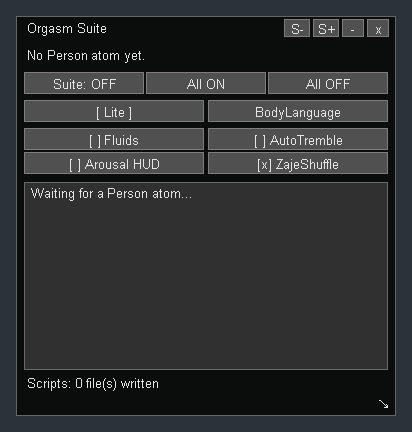
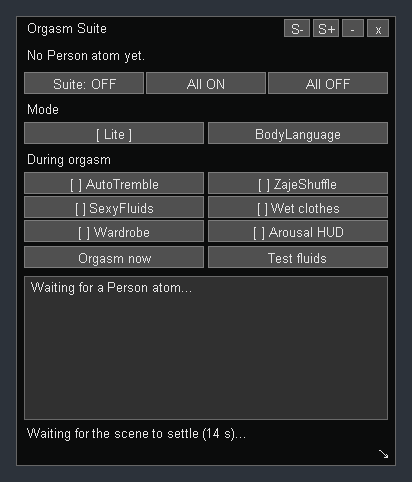
OrgasmSuite window: Mode (Lite / BodyLanguage), then per-module 'during orgasm' switches (AutoTremble, ZajeShuffle, SexyFluids, Wet clothes, Wardrobe) + HUD

diff --git a/zerot/OrgasmSuite/OrgasmSuite.cs b/zerot/OrgasmSuite/OrgasmSuite.cs
@@ -51,19 +51,20 @@ namespace ZeroT.OrgasmSuite
 		{
 			public bool On = true;
 			public string Engine = "Lite";   // Lite | BodyLanguage
-			public bool Fluids = true, Tremble = true, Hud = true;
+			// what happens during an orgasm on this Person (each one is a part of the suite that can be switched off) + the HUD
+			public bool Fluids = true, Tremble = true, Shuffle = true, Wet = true, Wardrobe = true, Hud = true;
 		}
 
 		private readonly Dictionary<string, PersonCfg> _cfg = new Dictionary<string, PersonCfg>(StringComparer.Ordinal);
 
 		// ------------------------------------------------------------------ config
-		private ConfigEntry<bool> _active, _females, _males, _shuffle, _autoAttach;
+		private ConfigEntry<bool> _active, _females, _males, _autoAttach;
 		private ConfigEntry<float> _settle, _quiet;
 		private ConfigEntry<bool> _showWindow, _collapsed, _dpiAware;
 		private ConfigEntry<float> _scale, _winX, _winY, _winW, _winH;
 		private ConfigEntry<string> _lastUid;
 
-		private Rect _win = new Rect(60f, 140f, 380f, 400f);
+		private Rect _win = new Rect(60f, 140f, 380f, 450f);
 		private bool _dragging, _resizing;
 		private Vector2 _dragStartMouse, _dragStartPos, _resizeStartMouse, _resizeStartSize;
 		private const float MinW = 320f, MaxW = 640f, MinH = 260f, MaxH = 760f, CollapsedH = 34f;
@@ -96,14 +97,13 @@ namespace ZeroT.OrgasmSuite
 			_autoAttach = Config.Bind("Suite", "AutoAttach", true, "Attach / detach the scripts by itself. Off: the suite never touches a Person (use it only to switch the choices on and off in the window).");
 			_settle = Config.Bind("Suite", "SettleSeconds", 15f, "After a scene load finishes, wait at least this long before attaching anything: VaM keeps restoring the scene's own plugins for a while after it says loading is done, and a script added in the middle of that crashed VaM.");
 			_quiet = Config.Bind("Suite", "QuietSeconds", 6f, "...and until nothing about the atoms or their plugin slots has changed for this long (changes the suite itself makes do not count).");
-			_shuffle = Config.Bind("Suite", "ZajeShuffle", true, "Keep one ZajeShuffle on CoreControl so every orgasm can fire a shuffle.");
 			_showWindow = Config.Bind("Window", "Show", true, "Show the in-game Orgasm Suite window.");
 			_collapsed = Config.Bind("Window", "Collapsed", false, "Collapse the window to its title bar.");
 			_scale = Config.Bind("Window", "Scale", 1.0f, "Extra scale multiplier applied on top of DPI (S- / S+).");
 			_winX = Config.Bind("Window", "X", 60f, "Saved horizontal position.");
 			_winY = Config.Bind("Window", "Y", 140f, "Saved vertical position.");
 			_winW = Config.Bind("Window", "Width", 380f, "Saved width.");
-			_winH = Config.Bind("Window", "Height", 400f, "Saved height.");
+			_winH = Config.Bind("Window", "Height", 450f, "Saved height.");
 			_dpiAware = Config.Bind("Window", "DpiAware", true, "Scale with the monitor's DPI.");
 			_lastUid = Config.Bind("State", "LastPerson", "", "Person remembered across sessions.");
 			_win = new Rect(_winX.Value, _winY.Value, Mathf.Clamp(_winW.Value, MinW, MaxW), Mathf.Clamp(_winH.Value, MinH, MaxH));
@@ -215,6 +215,7 @@ namespace ZeroT.OrgasmSuite
 					c.Fluids = f[3] == "1";
 					c.Tremble = f[4] == "1";
 					c.Hud = f[5] == "1";
+					if (f.Length >= 9) { c.Shuffle = f[6] == "1"; c.Wet = f[7] == "1"; c.Wardrobe = f[8] == "1"; }   // older files stop at the HUD column
 					_cfg[f[0]] = c;
 				}
 			}
@@ -236,7 +237,8 @@ namespace ZeroT.OrgasmSuite
 				{
 					PersonCfg c = kv.Value;
 					sb.Append(kv.Key).Append('\t').Append(c.On ? "1" : "0").Append('\t').Append(c.Engine).Append('\t')
-						.Append(c.Fluids ? "1" : "0").Append('\t').Append(c.Tremble ? "1" : "0").Append('\t').Append(c.Hud ? "1" : "0").Append('\n');
+						.Append(c.Fluids ? "1" : "0").Append('\t').Append(c.Tremble ? "1" : "0").Append('\t').Append(c.Hud ? "1" : "0")
+							.Append('\t').Append(c.Shuffle ? "1" : "0").Append('\t').Append(c.Wet ? "1" : "0").Append('\t').Append(c.Wardrobe ? "1" : "0").Append('\n');
 				}
 				File.WriteAllText(p, sb.ToString());
 			}
@@ -442,7 +444,7 @@ namespace ZeroT.OrgasmSuite
 			{
 				MVRPluginManager cm = FindManager(core);
 				string zs = "CoreControl's plugin manager is not ready";
-				if (cm != null) attachedOne = Apply(core, cm, Zaje, _shuffle.Value, ref attachedOne, out zs);
+				if (cm != null) attachedOne = Apply(core, cm, Zaje, AnyWantsShuffle(), ref attachedOne, out zs);
 				_status["Zaje"] = zs;
 			}
 
@@ -454,7 +456,7 @@ namespace ZeroT.OrgasmSuite
 				if (mgr == null) { _status[a.uid] = "VaM's plugin manager is not ready on " + a.uid; continue; }
 				bool lite = cfg.Engine != "BodyLanguage";
 				bool on = cfg.On && _installed;
-				bool needBridge = on && (cfg.Fluids || cfg.Tremble || _shuffle.Value);
+				bool needBridge = on && (cfg.Fluids || cfg.Tremble || cfg.Shuffle || cfg.Wet || cfg.Wardrobe);
 				StringBuilder st = new StringBuilder();
 				string s;
 				// engine first (everything else listens to it), then the hub, then the outputs
@@ -472,6 +474,18 @@ namespace ZeroT.OrgasmSuite
 				PushBridgeSettings(a, cfg);
 			}
 			if (attachedOne) _nextScan = Time.realtimeSinceStartup + 0.8f;
+		}
+
+		// ZajeShuffle is one script for the whole session: it stays while any managed Person still wants a shuffle on orgasm
+		private bool AnyWantsShuffle()
+		{
+			if (!_installed) return false;
+			for (int i = 0; i < _people.Count; i++)
+			{
+				PersonCfg c = CfgFor(_people[i].uid);
+				if (c.On && c.Shuffle) return true;
+			}
+			return false;
 		}
 
 		// BodyLanguage keeps a static singleton: one Person at a time. Whoever already has it keeps it; only when nobody does the
@@ -562,12 +576,14 @@ namespace ZeroT.OrgasmSuite
 			{
 				MVRScript fb = Instance(a, Bridge);
 				if (fb == null) return;
-				string sig = (cfg.Fluids ? "1" : "0") + (cfg.Tremble ? "1" : "0") + (_shuffle.Value ? "1" : "0") + fb.GetInstanceID();
+				string sig = (cfg.Fluids ? "1" : "0") + (cfg.Tremble ? "1" : "0") + (cfg.Shuffle ? "1" : "0") + (cfg.Wet ? "1" : "0") + (cfg.Wardrobe ? "1" : "0") + fb.GetInstanceID();
 				string old;
 				if (_pushed.TryGetValue(a.uid, out old) && old == sig) return;
 				JSONStorableBool b = fb.GetBoolJSONParam("Use SexyFluids"); if (b != null) b.val = cfg.Fluids;
 				b = fb.GetBoolJSONParam("AutoTremble on orgasm"); if (b != null) b.val = cfg.Tremble;
-				b = fb.GetBoolJSONParam("ZajeShuffle on orgasm"); if (b != null) b.val = _shuffle.Value;
+				b = fb.GetBoolJSONParam("ZajeShuffle on orgasm"); if (b != null) b.val = cfg.Shuffle;
+				b = fb.GetBoolJSONParam("Apply Wet Clothes preset on orgasm"); if (b != null) b.val = cfg.Wet;
+				b = fb.GetBoolJSONParam("Random clothing on orgasm"); if (b != null) b.val = cfg.Wardrobe;
 				_pushed[a.uid] = sig;
 			}
 			catch { }
@@ -711,22 +727,28 @@ namespace ZeroT.OrgasmSuite
 			if (GUI.Button(new Rect(x + 2f * (third + 2f * s), y, third, lh), "All OFF")) { foreach (Atom a in _people) CfgFor(a.uid).On = false; changed = true; }
 			y += lh + 6f * s;
 
-			// ---- engine switch
+			// ---- mode
+			GUI.Label(new Rect(x, y, w, lh), "Mode");
+			y += lh;
 			float ew = (w - 4f * s) / 2f;
 			bool isLite = cfg == null || cfg.Engine != "BodyLanguage";
 			if (GUI.Button(new Rect(x, y, ew, lh), isLite ? "[ Lite ]" : "Lite") && cfg != null && !isLite) { cfg.Engine = "Lite"; changed = true; }
 			if (GUI.Button(new Rect(x + ew + 4f * s, y, ew, lh), !isLite ? "[ BodyLanguage ]" : "BodyLanguage") && cfg != null && isLite) { cfg.Engine = "BodyLanguage"; changed = true; }
 			y += lh + 6f * s;
 
-			// ---- part switches
+			// ---- what happens during an orgasm: one switch per module
 			float hw = (w - 4f * s) / 2f;
-			string hudName = isLite ? "Arousal HUD" : "Stimulation HUD";
-			if (GUI.Button(new Rect(x, y, hw, lh), Box(cfg != null && cfg.Fluids) + "Fluids") && cfg != null) { cfg.Fluids = !cfg.Fluids; changed = true; }
-			if (GUI.Button(new Rect(x + hw + 4f * s, y, hw, lh), Box(cfg != null && cfg.Tremble) + "AutoTremble") && cfg != null) { cfg.Tremble = !cfg.Tremble; changed = true; }
+			GUI.Label(new Rect(x, y, w, lh), "During orgasm");
+			y += lh;
+			if (GUI.Button(new Rect(x, y, hw, lh), Box(cfg != null && cfg.Tremble) + "AutoTremble") && cfg != null) { cfg.Tremble = !cfg.Tremble; changed = true; }
+			if (GUI.Button(new Rect(x + hw + 4f * s, y, hw, lh), Box(cfg != null && cfg.Shuffle) + "ZajeShuffle") && cfg != null) { cfg.Shuffle = !cfg.Shuffle; changed = true; }
 			y += lh + 2f * s;
-			if (GUI.Button(new Rect(x, y, hw, lh), Box(cfg != null && cfg.Hud) + hudName) && cfg != null) { cfg.Hud = !cfg.Hud; changed = true; }
-			GUI.enabled = enabled;
-			if (GUI.Button(new Rect(x + hw + 4f * s, y, hw, lh), Box(_shuffle.Value) + "ZajeShuffle")) { _shuffle.Value = !_shuffle.Value; Config.Save(); }
+			if (GUI.Button(new Rect(x, y, hw, lh), Box(cfg != null && cfg.Fluids) + "SexyFluids") && cfg != null) { cfg.Fluids = !cfg.Fluids; changed = true; }
+			if (GUI.Button(new Rect(x + hw + 4f * s, y, hw, lh), Box(cfg != null && cfg.Wet) + "Wet clothes") && cfg != null) { cfg.Wet = !cfg.Wet; changed = true; }
+			y += lh + 2f * s;
+			if (GUI.Button(new Rect(x, y, hw, lh), Box(cfg != null && cfg.Wardrobe) + "Wardrobe") && cfg != null) { cfg.Wardrobe = !cfg.Wardrobe; changed = true; }
+			string hudName = isLite ? "Arousal HUD" : "Stimulation HUD";
+			if (GUI.Button(new Rect(x + hw + 4f * s, y, hw, lh), Box(cfg != null && cfg.Hud) + hudName) && cfg != null) { cfg.Hud = !cfg.Hud; changed = true; }
 			y += lh + 4f * s;
 
 			// ---- test buttons (act on the selected Person)

diff --git a/zerot/UiSim/VamSim/SuiteScenario.cs b/zerot/UiSim/VamSim/SuiteScenario.cs
@@ -370,6 +370,23 @@ public static class SuiteScenario
 		St(h, 10f);
 		h.Check(Has(woman, "SexyFluids/ZeroT.OrgasmSuite.SexyFluids.dll") && Has(woman, "AutoTremble/ZeroT.OrgasmSuite.AutoTremble.dll") && Has(woman, "StimulationHUD/ZeroT.OrgasmSuite.StimulationHUD.dll"), "...and they come back when switched on again");
 
+		// ---- 8b. the "during orgasm" switches reach FluidBridge; ZajeShuffle leaves CoreControl when nobody wants it
+		SetCfg(h, "Woman", "Wet", false); SetCfg(h, "Woman", "Wardrobe", false);
+		St(h, 2f);
+		var fbS = Script(woman, "FluidBridge");
+		h.Check(!fbS.GetBoolJSONParam("Apply Wet Clothes preset on orgasm").val && !fbS.GetBoolJSONParam("Random clothing on orgasm").val, "Wet clothes / Wardrobe off: pushed into FluidBridge");
+		SetCfg(h, "Woman", "Wet", true); SetCfg(h, "Woman", "Wardrobe", true);
+		St(h, 2f);
+		h.Check(fbS.GetBoolJSONParam("Apply Wet Clothes preset on orgasm").val && fbS.GetBoolJSONParam("Random clothing on orgasm").val, "...and back on");
+		SetCfg(h, "Woman", "Shuffle", false); SetCfg(h, "Man", "Shuffle", false);
+		St(h, 4f);
+		h.Check(!Has(core, "ZajeShuffle/ZeroT.OrgasmSuite.ZajeShuffle.dll"), "no Person wants a shuffle: ZajeShuffle leaves CoreControl");
+		h.Check(!fbS.GetBoolJSONParam("ZajeShuffle on orgasm").val, "...and FluidBridge's shuffle hook is off");
+		SetCfg(h, "Woman", "Shuffle", true);
+		St(h, 4f);
+		h.Check(Has(core, "ZajeShuffle/ZeroT.OrgasmSuite.ZajeShuffle.dll"), "one Person wants it again: ZajeShuffle is back (session wide)");
+		SetCfg(h, "Man", "Shuffle", true);
+
 		// ---- 9. Suite OFF removes only the suite's own scripts
 		if (Environment.GetEnvironmentVariable("SUITE_DEBUG") != null) Console.WriteLine("  DEBUG stage 9 errors=" + Sim.Errors.Count);
 		SetCfg(h, "Man", "Engine", "Lite");
